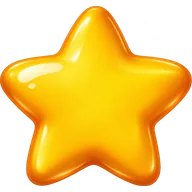
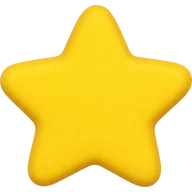
Soften clear rewards and stagger the result actions

diff --git a/src/styles/main.scss b/src/styles/main.scss
@@ -496,10 +496,11 @@
   padding-bottom: max(clamp(12px, 6dvh, 46px), env(safe-area-inset-bottom));
 }
 .game-status--clear .result-panel {
+  --clear-text: #76452d;
   flex: 0 1 auto;
   align-content: safe center;
   gap: clamp(8px, 1.7dvh, 14px);
-  padding: clamp(12px, 2dvh, 18px) clamp(16px, 6vw, 32px);
+  padding: clamp(18px, 3dvh, 26px) clamp(16px, 6vw, 32px);
   border: 1px solid #fffdf8;
   border-radius: clamp(22px, 6vw, 32px);
   background: linear-gradient(150deg, #fff8ef, #fdf0e2);
@@ -509,20 +510,19 @@
 .result-stars img { width: clamp(34px, 15vw, 66px); height: auto; display: block; }
 .result-stars > :nth-child(2) img { width: clamp(40px, 17vw, 74px); }
 .result-stars .result-star--earned {
-  color: #df8a12;
-  filter: drop-shadow(0 3px 2px #d58e2d55);
-  animation: clear-star-pop 360ms cubic-bezier(.2,.7,.3,1) both;
+  filter: drop-shadow(0 2px 2px #b480363d);
+  animation: clear-scale-in 520ms cubic-bezier(.22,.72,.26,1) var(--star-delay, 300ms) both;
 }
 .result-stars > :not(.result-star--earned) img { filter: grayscale(.85); opacity: .28; }
-.result-stars > :nth-child(2) { animation-delay: 125ms; }
-.result-stars > :nth-child(3) { animation-delay: 250ms; }
-@keyframes clear-star-pop {
-  0% { opacity: 0; scale: .82; }
-  62% { opacity: 1; scale: 1.13; }
+.result-stars > :nth-child(2) { --star-delay: 510ms; }
+.result-stars > :nth-child(3) { --star-delay: 720ms; }
+@keyframes clear-scale-in {
+  0% { opacity: 0; scale: .7; }
+  65% { opacity: 1; scale: var(--clear-pop-scale, 1.12); }
   100% { opacity: 1; scale: 1; }
 }
 .result-panel .clear-title {
-  color: #21464c;
+  color: var(--clear-text);
   font-family: var(--level-script);
   font-size: clamp(34px, 10vw, 48px);
   line-height: 1.05;
@@ -539,10 +539,16 @@
 }
 .result-desserts .donut { width: min(29%, clamp(45px, 13dvh, 94px)); }
 .game-status--clear .result-actions { width: min(100%, 320px); gap: 10px; }
+.game-status--clear .result-actions > button {
+  --clear-pop-scale: 1.05;
+  animation: clear-scale-in 440ms cubic-bezier(.22,.72,.26,1) var(--action-delay, 430ms) both;
+}
+.game-status--clear .result-actions > :nth-child(2) { --action-delay: 550ms; }
+.game-status--clear .result-actions > :nth-child(3) { --action-delay: 670ms; }
 .game-status--clear .result-actions .secondary-button {
   border: 1px solid #fffaf4;
   background: #fff;
-  color: #76452d;
+  color: var(--clear-text);
   box-shadow: 0 3px 5px #b8784d30;
 }
 .result-character { object-fit: contain; width: min(65%, 192px); height: clamp(60px, 21dvh, 170px); }
@@ -585,7 +591,7 @@
   .result-actions { grid-column: 2; grid-row: 1 / span 4; align-self: center; }
   .result-panel > :not(.result-actions, .expand-button) { grid-column: 1; }
   .game-status--clear { padding-top: 18px; padding-bottom: 14px; }
-  .game-status--clear .result-panel { padding: 14px 22px; gap: 9px 16px; }
+  .game-status--clear .result-panel { padding: 18px 22px; gap: 9px 16px; }
   .game-status--clear .result-stars img { width: 44px; }
   .game-status--clear .result-stars > :nth-child(2) img { width: 52px; }
   .result-panel:not(:has(.result-character, .result-stars)) { grid-template-columns: 1fr; }
